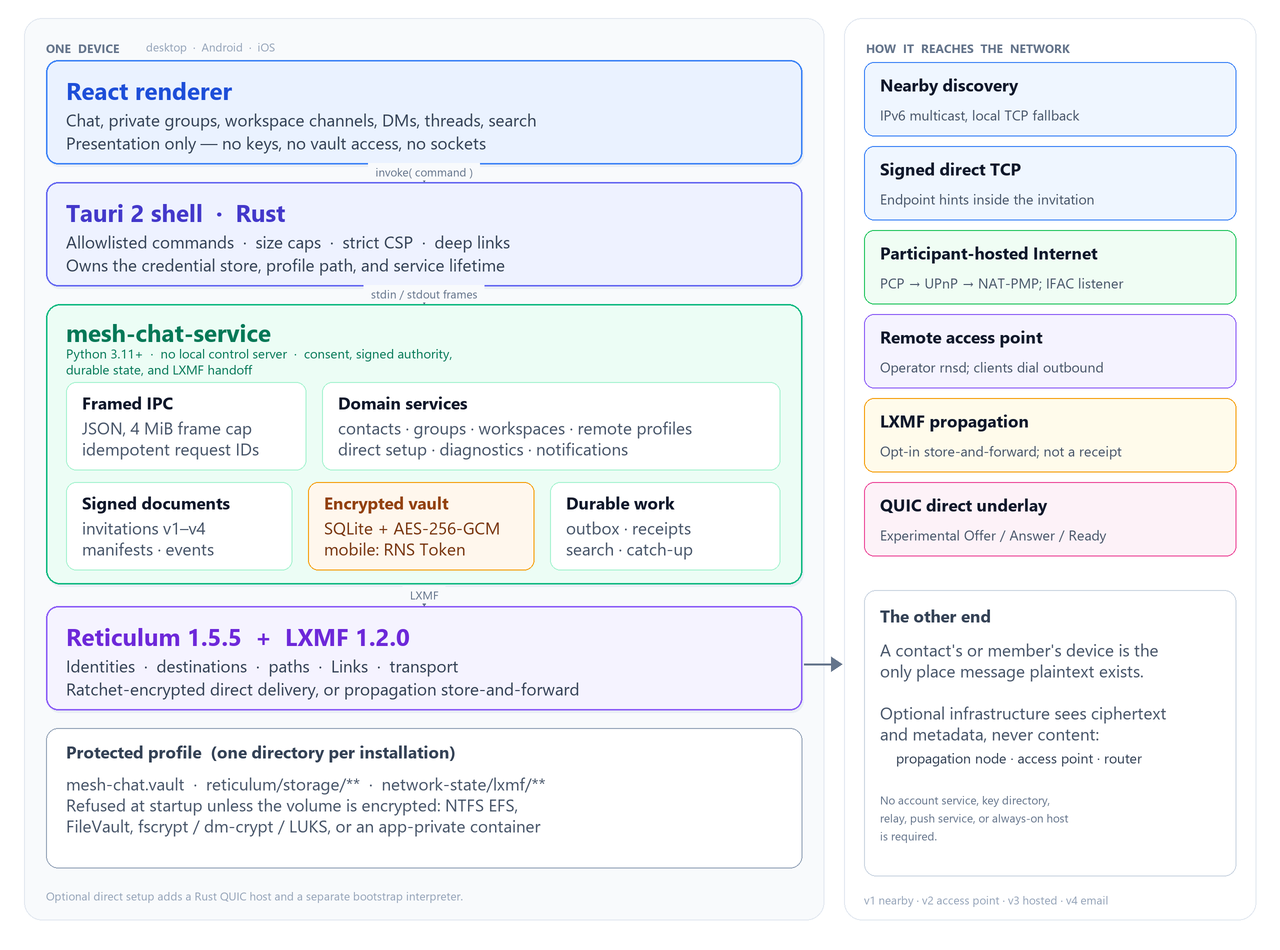
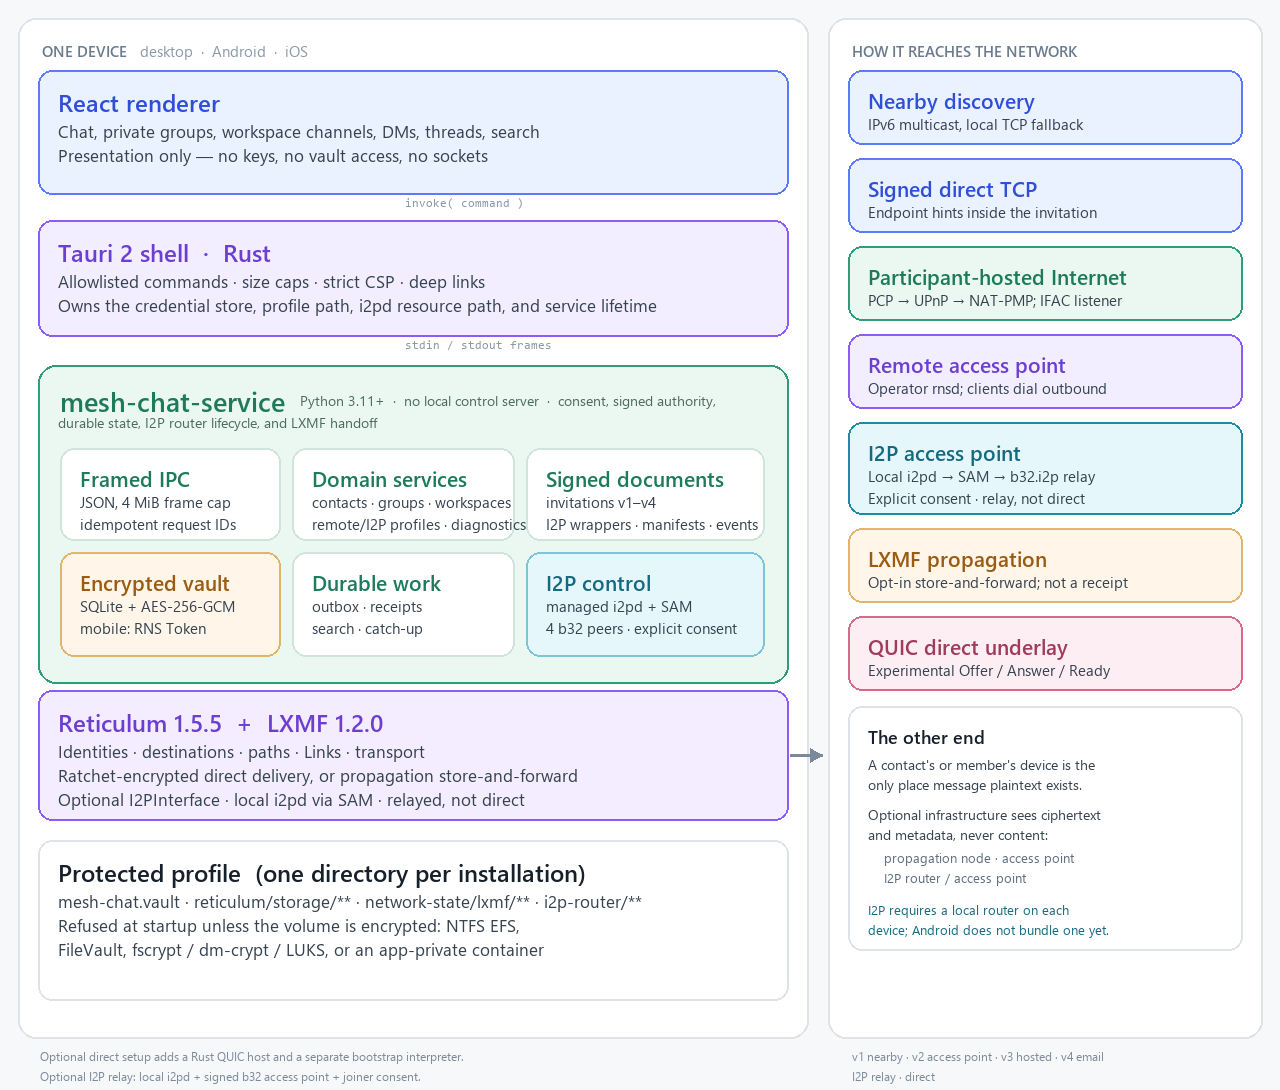
Document the optional I2P relay
Add I2P to the README problem/solution table, invitation matrix, limits,
security boundaries, repository map, and status. Document the signed
MESHI2P1/MESHI2P1W envelopes, local i2pd/SAM requirement, Windows managed
router, Android gap, consent/adoption behavior, and non-default policy.

Replace the architecture overview image with an I2P-aware version and add the
same diagram plus an I2P access-point transport section to ARCHITECTURE.md.

diff --git a/README.md b/README.md
@@ -6,7 +6,9 @@ Mesh Chat is a desktop and mobile messenger with no account service, no signalin
 
 The design accepts real trade-offs. Delivery depends on peers being reachable, history lives only on the devices that received it, and no operator can recover a lost identity. For a small trusted team, that is the point.
 
-> **Status — security-sensitive prototype.** The source tree is at 0.2.63. It has not been independently audited, and several physical-device and packaging gates are still open. Read [Status and verification](#status-and-verification) before relying on it.
+An optional **I2P relay path** can bootstrap a workspace or 1:1 connection when neither device has a public endpoint. It is an explicit, consented fallback: the invitation carries one signed `*.b32.i2p` access point, both sides need an I2P router, and the access point relays encrypted Reticulum traffic rather than creating a direct link. I2P is not the default, is not available on Android yet, and does not replace the direct/LAN/access-point paths.
+
+> **Status — security-sensitive prototype.** The source tree is at 0.2.75. It has not been independently audited, and several physical-device and packaging gates are still open. Read [Status and verification](#status-and-verification) before relying on it.
 
 ## What problem it solves
 
@@ -23,6 +25,7 @@ In short, it solves **“how do a few people message and coordinate privately wi
 | **Group chat normally needs a hosted room** | **Private groups.** Up to eight people, owner-signed membership, an announcement-channel mode, and per-recipient delivery state. | One logical message becomes one separately encrypted copy per member. There is no group server and no shared group key. |
 | **Workspace collaboration normally needs a server** | **Shared workspaces.** Up to eight people, 32 public/private channels including `#general`, workspace DMs, one-level threads, mentions, edits, deletion tombstones, reactions, local search, and cooperative retention. | One authority-signed manifest chain describes membership; every device receives its own signed copy of each event. |
 | **First contact usually needs STUN, TURN, or a rendezvous service** | **Direct Internet invitations.** A temporary listener on the inviter's device asks their router for a mapping, then signs the resulting endpoint and credential into the invitation. | PCP → UPnP IGD → NAT-PMP on the participant's router. No rendezvous, STUN, TURN, or Mesh Chat service is contacted. |
+| **No public endpoint and no directly reachable access point** | **I2P relay invitations.** A signed `MESHI2P1:` / `MESHI2P1W:` envelope carries one `*.b32.i2p` Reticulum access point; the joiner must consent before traffic is relayed. | Each side runs an I2P router with SAM. The access point relays encrypted Reticulum/LXMF traffic; no public IP or port forward is needed on either participant. |
 | **One network path is not enough** | **Explicit fallbacks.** Nearby discovery, signed direct TCP, an operator-run access point, an email/reverse handshake, and an experimental QUIC underlay. | Each path is a visible choice, never a silent downgrade. See [Reaching another device](#reaching-another-device). |
 | **Cloud chat means cloud-held history and metadata** | **Local-only privacy.** Encrypted vault, sealed local search, no telemetry, analytics, crash upload, CDN, or remote artwork fetch. | Search and history stay on the device; there is no hosted index to query. |
 | **Offline peers and unclear delivery** | **Offline-tolerant delivery.** An optional LXMF propagation node stores recipient-encrypted objects until the recipient fetches them. A durable outbox, deduplication, and per-device evidence cover the rest. | The propagation node is separately consented and never becomes an identity, member, or delivery receipt. |
@@ -30,23 +33,23 @@ In short, it solves **“how do a few people message and coordinate privately wi
 
 ### What it deliberately does not solve
 
-- **Universal reachability.** If neither side can accept inbound traffic and no shared path exists, setup fails and says so. It is not a guaranteed NAT-traversal system.
+- **Universal reachability.** If neither side can accept inbound traffic and no shared path exists, setup fails and says so. It is not a guaranteed NAT-traversal system. I2P helps only when each side can run an I2P router and reach a configured access point; Android does not bundle one yet.
 - **Asynchronous delivery without infrastructure.** An offline recipient needs an explicitly approved propagation node; there is no push service.
 - **Identity or authority-key recovery.** Lost keys are not recoverable, and lost workspace authority freezes administration.
-- **Anonymity.** IP endpoints, timing, and traffic analysis remain exposed; there is no anonymity claim.
+- **Anonymity.** IP endpoints, timing, and traffic analysis remain exposed; I2P hides participant IP addresses from each other but the access point and the I2P network still see relay metadata. There is no anonymity claim.
 - **Broad messenger scope.** Attachments, calls, discoverable public channels, cloud backup, remote push, and multi-owner membership are out of scope.
 - **Production assurance.** The project describes itself as a security-sensitive prototype: it has not been independently audited, and physical-device, packaging, and platform gates remain open. See [Status and verification](#status-and-verification) and [THREAT_MODEL.md](THREAT_MODEL.md).
 
 ## Architecture
 
-![Mesh Chat architecture: renderer, Tauri shell, Python service, Reticulum/LXMF, protected profile, and the network paths they use](docs/architecture/overview.png)
+![Mesh Chat architecture: renderer, Tauri shell, Python service, Reticulum/LXMF with optional I2P, protected profile, and the network paths they use](docs/architecture/overview.png)
 
 The application is four cooperating layers plus the network below them. Reticulum already owns identity, routing, and encryption across very different links, so Mesh Chat does not re-implement any of that: it adds only the application semantics those layers do not provide.
 
 1. **React renderer** — the conversation list, chats, groups, workspaces, threads, search, and settings. It holds UI state and drafts only. It never receives a private key, the vault key, a filesystem path, or a socket.
 2. **Tauri 2 shell (Rust)** — the only component allowed to start and stop the messaging service. It retrieves or creates a 32-byte vault key in the operating system's credential store, supplies the app-private profile path, validates every renderer command against a named allowlist and a size limit, and applies a strict content security policy.
 3. **`mesh-chat-service` (Python 3.11+)** — the security boundary. It parses and verifies every signed document, owns contact/group/workspace consent, commits state to the vault, runs the outbox and receipt jobs, and hands messages to LXMF only after the local transaction is durable. It speaks a framed stdin/stdout protocol; there is no localhost HTTP or WebSocket control server.
-4. **Reticulum 1.5.5 + LXMF 1.2.0** — the pinned reference stack. Reticulum supplies identities, destinations, paths, Links, and transport; LXMF supplies message serialization plus direct and propagated delivery. Mesh Chat adds no custom cipher, group key, or routing envelope.
+4. **Reticulum 1.5.5 + LXMF 1.2.0** — the pinned reference stack. Reticulum supplies identities, destinations, paths, Links, and transport; LXMF supplies message serialization plus direct and propagated delivery. Mesh Chat adds no custom cipher, group key, or routing envelope. An optional Reticulum `I2PInterface` can carry the same LXMF traffic over I2P when a local `i2pd` router and an access point are explicitly configured.
 
 Underneath them, one **protected profile** holds everything at rest: the sealed vault, Reticulum path/ratchet state, and the LXMF message store. The service verifies OS-level encryption for that directory (and enables NTFS EFS on Windows when needed) and refuses to start if it cannot confirm it — FileVault, fscrypt / dm-crypt / LUKS, or an app-private Android/iOS container.
 
@@ -66,11 +69,14 @@ Reticulum routes packets, but it cannot make an arbitrary NAT accept an inbound 
 | **v2 — access point** | `MESHCHAT2:` / `MESHWORKSPACE2:` | Outbound TCP to an explicitly approved operator-run Reticulum transport | A third-party or self-hosted access point |
 | **v3 — participant-hosted** | `MESHCHAT3:` / `MESHWORKSPACE3:` | The inviter opens a short-lived, invitation-scoped listener on their device and asks their router to publish it; the signed envelope carries the public endpoints and a fresh Reticulum IFAC credential | Inviter online; router mapping succeeds |
 | **v4 — email-ready** | `MESHCHAT4:` / `MESHWORKSPACE4:` | Outbound-first attempt, with an optional signed callback and role reversal if the invitee must host instead | An out-of-band channel to exchange signed documents |
+| **I2P relay** | `MESHI2P1:` / `MESHI2P1W:` | A signed outer envelope around the complete inner invitation, carrying one validated `*.b32.i2p` access point, its expiry, and the owner binding | Each side runs an I2P router with SAM; the access point is reachable through I2P |
 | **Direct setup** | `mesh-direct:` | Signed Offer → Answer → Ready over an experimental QUIC underlay, then an isolated bootstrap interpreter | Both sides can reach each other; physical qualification pending |
 
 Accepting an invitation never creates trust by itself. The recipient reviews the inviter, fingerprint, and workspace details, and the request must still be approved. The first contact on a shared path is bounded by invitation expiry, single use, and explicit consent.
 
 Two honest limits follow from having no infrastructure: if neither participant can accept inbound traffic and they share no already-working path, setup fails and says so; and a self-hosted access point or propagation node is a separate deployment, not a Mesh Chat service. See [deploy/remote-access](deploy/remote-access/README.md).
+
+**I2P is an opt-in relay, not the default.** A normal invitation still starts with nearby/direct/participant-hosted/remote choices. I2P is selected explicitly, and the joiner sees the access point and must consent. The access point is a Reticulum `I2PInterface` node addressed by `*.b32.i2p`; it relays encrypted Reticulum/LXMF traffic and does not see message plaintext. Windows bundles and manages `i2pd`; Android has the settings and consent UI but no bundled I2P router yet, so Android cannot complete an I2P join in 0.2.75.
 
 ## Workspaces: authority without a server
 
@@ -131,6 +137,7 @@ Receipts are ordinary end-to-end encrypted LXMF messages. They are never acknowl
 | Android/iOS plugin | Embedded CPython lifecycle, app-private path, Keystore/Keychain access | Renderer data, contact policy, routing decisions |
 | Python service | Identity, consent, durable state, Reticulum/LXMF integration | OS credential lookup, arbitrary commands, remote control |
 | Reticulum / LXMF | Paths, Links, transport, wire format, encryption | Contact trust, membership, durable-delivery claims |
+| I2P router / access point | I2P tunnels, relay forwarding, connection metadata | Message plaintext, contact trust, membership, delivery receipts |
 
 The wire uses native RNS identities and destination encryption with ratchets enforced before any send. Invitations are re-derived and signature-checked; a destination that does not match the embedded identity is rejected. Every inbound message must pass native signature validation, exact destination matching, schema validation, expiry checks, and a trust-policy check before it enters the vault. Unknown senders may only create a bounded pending contact request; a workspace has exactly one unknown-source exception — a fully verified join.
 
@@ -152,14 +159,16 @@ The threat model is explicit about what is *not* protected: traffic analysis, IP
 | Local search | Exact tokens; 25 results by default, 50 maximum |
 | IPC frame / renderer payload | 4 MiB / 32 KiB default |
 | Optional propagation cache (client) | 100 MiB |
+| I2P access points per device | 4 |
+| Managed I2P router | Local `i2pd` with SAM on `127.0.0.1:7656`; low-bandwidth, no transit, no web console/proxies |
 | Attachments, calls, public channels, push notifications | Not supported |
 
 ## Status and verification
 
 | Platform | What exists | Recorded verification |
 | --- | --- | --- |
-| Windows x64 | MSI and NSIS installers, standalone executable plus service sidecar | Built, hashed, and version-matched; the recorded verification did not launch the installer |
-| Android arm64 | Debug APK, plus release/AAB signing path | Built and package-inspected (signature, manifest, assets); no device was attached in the recorded run |
+| Windows x64 | MSI and NSIS installers, standalone executable plus service sidecar, bundled/managed `i2pd`, I2P invitation and consent UI | 0.2.75 published; installer launch not rerun after the temporary-folder disk fix |
+| Android arm64 | Debug APK, plus release/AAB signing path; I2P settings and invitation preview | Built and package-inspected; no bundled I2P router and no device was attached in the recorded run |
 | macOS | Build path, FileVault adapter | No package built or run in this repository |
 | Linux | Build path, fscrypt/dm-crypt adapters | No package built or run in this repository |
 | iOS | Plugin and build script | Requires macOS and Xcode; not built or run in this repository |
@@ -172,9 +181,10 @@ Still open: physical Windows↔Android runs, real router/NAT and cellular traver
 
 | Path | Contents |
 | --- | --- |
-| [`service/src/mesh_chat/`](service/src/mesh_chat/) | Protocol documents, vault, RNS/LXMF adapters, personal/group/workspace/remote services |
+| [`service/src/mesh_chat/`](service/src/mesh_chat/) | Protocol documents, vault, RNS/LXMF adapters, I2P router/invitation support, personal/group/workspace/remote services |
 | [`src/`](src/) | React messenger interface; no identity or vault access |
 | [`src-tauri/`](src-tauri/) | Rust shell: command allowlist, IPC, sidecar lifecycle, CSP, deep links |
+| [`vendor/`](vendor/) | Bundled Windows `i2pd` binary and its BSD-3-Clause license |
 | [`plugins/tauri-plugin-mesh-runtime/`](plugins/tauri-plugin-mesh-runtime/) | Android/iOS embedded-Python bridge and native device key storage |
 | [`experiments/direct-fabric/`](experiments/direct-fabric/) | Rust QUIC underlay proof used by the direct-setup path |
 | [`deploy/remote-access/`](deploy/remote-access/) | Example self-hosted Reticulum transport and LXMF propagation host |
@@ -210,6 +220,7 @@ Desktop installers must be built on their target operating system. Android build
 | [docs/RELEASES.md](docs/RELEASES.md) | Release-by-release notes and installation history for earlier versions |
 | [docs/adr/](docs/adr/) | Why the stack, IPC, groups, workspaces, retention, and connectivity work this way |
 | [Direct connectivity roadmap](docs/DIRECT_CONNECTIVITY_ROADMAP.md) | Invitation bootstrap, traversal, recovery phases, and qualification status |
+| [I2P support specification](docs/I2P_SUPPORT_SPEC.md) | I2P access-point architecture, Windows/Android roadmap, consent, and limits |
 | [docs/ANDROID_PARITY.md](docs/ANDROID_PARITY.md) | Android capability status and the physical test matrix |
 | [deploy/remote-access](deploy/remote-access/README.md) | Running an access point or propagation node without becoming a Mesh Chat service |
 

diff --git a/ARCHITECTURE.md b/ARCHITECTURE.md
@@ -1,5 +1,7 @@
 # Architecture
 
+![Mesh Chat architecture: renderer, Tauri shell, Python service, Reticulum/LXMF with optional I2P, protected profile, and network paths](docs/architecture/overview.png)
+
 ## Durable connectivity implementation boundary
 
 Workspace joining distinguishes local persistence, LXMF endpoint proof, a signed
@@ -78,6 +80,41 @@ An optional recommended propagation destination is inert until separately approv
 
 The first supported access point is self-hosted or manually supplied. It is outside the client processes and has no Mesh Chat account, contact, workspace, membership, key-directory, or control API. The example deployment is under `deploy/remote-access`. A managed public Mesh Chat gateway is not part of this architecture.
 
+## I2P access-point transport
+
+I2P is an optional relay path for a first connection when neither device has a public endpoint. It is **not the default** and does not replace nearby/direct/participant-hosted/remote access. A normal invitation still uses the existing direct-first choices; I2P is selected explicitly.
+
+The signed envelope is additive:
+
+- `MESHI2P1:` wraps a complete personal invitation.
+- `MESHI2P1W:` wraps a complete workspace invitation.
+- The outer document carries the exact inner bytes, their SHA-256 digest, one validated `*.b32.i2p` access point, a bounded expiry, the signer public key, and a signature.
+- Verification requires the inner invitation to verify, the outer signer to match the inner owner, the digest to match, the purpose to match, and the outer expiry not to exceed the inner invitation.
+- The inner invitation, single-use nonce, replay protection, approval, and membership semantics are unchanged.
+
+Connectivity has two independent requirements:
+
+1. **A local I2P router.** Reticulum's `I2PInterface` talks to a local I2P router through SAM at `127.0.0.1:7656` (overridable with `I2P_SAM_ADDRESS`). A `b32.i2p` address is a destination, not an IP endpoint; a device cannot dial it without an I2P router.
+2. **A reachable access point.** The access point is a Reticulum transport node with an `I2PInterface` (`connectable = Yes`). It may be the inviter's own always-on Windows device or a separately operated access point. Both participants must have a path to it.
+
+Windows bundles `i2pd` 2.61.0 and `I2PRouterManager` starts it before Reticulum when I2P is enabled and managed. The managed configuration:
+
+- binds SAM to localhost only;
+- disables the web console, HTTP proxy, SOCKS proxy, and UPnP;
+- disables transit relaying and uses the low-bandwidth profile;
+- runs as a child process, not a Windows service, and stops on shutdown;
+- resolves the bundled binary from the Tauri resource path.
+
+Android has the settings, invitation wrapper, preview, and consent UI, but no bundled I2P router and no verified external-SAM path in 0.2.75. It cannot complete an I2P join yet.
+
+### Consent and adoption
+
+The joiner must explicitly consent to the access point. `accept_invitation` and `submit_workspace_join` reject an I2P envelope without `i2p_consent`. The personal, onboarding, and workspace join views show the relay disclosure and keep the action disabled until the box is selected.
+
+The access point is adopted into local I2P settings only after consent. The invitation's creator also adopts the access point when it is not itself the connectable access point, so both sides converge on the same route. Adoption writes the `[[I2P]]` interface and takes effect after restart; the signed request remains queued until then.
+
+The access point sees connection metadata and relay timing, not message plaintext. Reticulum/LXMF encryption and recipient-ratchet enforcement remain end to end. There is no anonymity claim: the I2P network and access point can still observe metadata, and I2P does not create a direct QUIC path.
+
 ## Trust and process boundaries
 
 | Component | Owns | Must not own |
@@ -88,6 +125,7 @@ The first supported access point is self-hosted or manually supplied. It is outs
 | Python service | private identity, contact/group policy, durable state, Reticulum/LXMF integration | OS credential lookup, arbitrary commands, remote UI |
 | Reticulum | paths, announces, interfaces, native transport forwarding | contact trust, chat history, durable-delivery claims |
 | LXMF | message wire format, direct/propagated transfer, propagation storage/sync | accepted-conversation or group-membership policy, logical deduplication, application receipts |
+| I2P router / access point | I2P tunnels, relay forwarding, connection metadata | message plaintext, contact trust, workspace authority, delivery receipts |
 
 The shell selects the profile path and retrieves or creates a 32-byte vault key in the native credential store. Desktop starts the packaged sidecar without arguments and sends both values in the first private stdin frame. Android and iOS call the same Python service through a narrow JSON boundary in a native Tauri plugin; the key remains in native code and the profile remains inside the app sandbox. The renderer can invoke only an allowlisted Rust command; Rust rejects oversized bodies, filesystem/control keys, and unknown operations.
 
@@ -95,12 +133,13 @@ The desktop sidecar reserves stdout for framed responses/events and discards det
 
 ## Networking lifecycle
 
-1. The service writes an app-owned Reticulum configuration with `share_instance = No`, `discover_interfaces = No`, no public gateways, and only user-configured interfaces.
-2. RNS is initialized inside the protected profile, then LXMF registers the standard `lxmf.delivery` individual destination.
-3. Destination ratchets are enabled and enforced before the first announce.
-4. An imported invitation is independently signature-checked and its destination is re-derived before its public identity is remembered by RNS.
-5. Sending waits for acceptable recipient ratchet material. Direct messages use LXMF Links; propagated messages are permitted only when a configured approved propagation node exists and recipient ratchet encryption is confirmed before handoff.
-6. A native direct proof becomes `received_by_endpoint`; a propagation upload proof becomes `stored_for_delivery`. Only an authenticated Mesh Chat receipt becomes `delivered`.
+1. The service writes an app-owned Reticulum configuration with `share_instance = No`, `discover_interfaces = No`, no public gateways, and only user-configured interfaces. When I2P is enabled, the configuration includes one `I2PInterface` with `connectable` and bounded `peers`.
+2. If I2P is enabled and managed, `I2PRouterManager` starts the bundled `i2pd` and waits for SAM on localhost; an already-running external SAM is used without spawning a process. A missing router is reported as a status, not a startup crash.
+3. RNS is initialized inside the protected profile, then LXMF registers the standard `lxmf.delivery` individual destination.
+4. Destination ratchets are enabled and enforced before the first announce.
+5. An imported invitation is independently signature-checked and its destination is re-derived before its public identity is remembered by RNS. I2P envelopes are verified against the inner owner before any access point is adopted.
+6. Sending waits for acceptable recipient ratchet material. Direct messages use LXMF Links; propagated messages are permitted only when a configured approved propagation node exists and recipient ratchet encryption is confirmed before handoff.
+7. A native direct proof becomes `received_by_endpoint`; a propagation upload proof becomes `stored_for_delivery`. Only an authenticated Mesh Chat receipt becomes `delivered`. An I2P-relayed path uses the same LXMF evidence; the transport is different, not the delivery semantics.
 
 ## Private groups and channels
 
